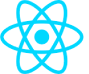
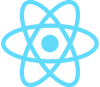
style: curriculum 아이콘 재배치

diff --git a/components/Curriculum.js b/components/Curriculum.js
@@ -80,9 +80,11 @@ const PLImgFirstBox = styled.div`
   justify-content: center;
   img:nth-child(1) {
     margin-right: 33px;
+    height: 91px;
   }
   img:nth-child(2) {
     margin: 0 33px;
+    height: 91px;
   }
 
   @media screen and (max-width: 1024px) {
@@ -93,9 +95,9 @@ const PLImgFirstBox = styled.div`
       height: 91px;
     }
     img:nth-child(2) {
-      margin: 0 33px;
+      margin: 0 22px;
       width: 87px;
-      height: 87px;
+      height: 80px;
     }
   }
 `;
@@ -113,21 +115,19 @@ const PLImgSecondBox = styled.div`
   }
 
   @media screen and (max-width: 1024px) {
-    margin-top: 15px;
-    width: 75px;
-    height: auto;
+    margin-top: 40px;
     align-items: center;
     img:nth-child(1) {
       margin: 0 21px 0 0;
-      width: 90px;
+      width: 100px;
     }
     img:nth-child(2) {
-      margin: 0 30px;
-      width: 550px;
+      margin: 0 21px;
+      width: 87px;
     }
     img:nth-child(3) {
       margin-left: 21px;
-      width: 550px;
+      width: 87px;
     }
   }
 `;
@@ -135,31 +135,31 @@ const PLImgSecondBox = styled.div`
 const PLImgThirdBox = styled.div`
   display: flex;
   img:nth-child(1) {
-    margin: 0 27px;
+    margin: 0 33px 0 48px;
   }
   img:nth-child(2) {
     margin: 0 33px;
   }
   img:nth-child(3) {
-    margin-left: 30px;
+    margin: 8px 0 0 30px;
+    height: 73px;
   }
   margin: 0 0 0 15px;
 
   @media screen and (max-width: 1024px) {
-    margin-top: 15px;
-    width: 75px;
-    height: auto;
     align-items: center;
     img:nth-child(1) {
-      margin: 0 21px 0 30px;
-      width: 90px;
+      margin: 0 9px 0 0;
+      width: 55px;
     }
     img:nth-child(2) {
-      margin: 0 0 0 20px;
-      width: 550px;
+      margin: 0 10px;
+      width: 150px;
     }
     img:nth-child(3) {
-      width: 550px;
+      margin: 10px 3px 10px 0;
+      width: 115px;
+      height: 60px;
     }
   }
 `;
@@ -191,29 +191,29 @@ const Curriculum = forwardRef((props, ref) => {
         <PLImgFirstBox>
           <img
             src='../img/htmlcss.png'
-            alt='HtmlAndCss'
+            alt='HtmlAndCss 아이콘'
             {...AnimationArray[0].animation}
           />
           <img
             src='../img/react.png'
-            alt='react'
+            alt='리액트 아이콘'
             {...AnimationArray[1].animation}
           />
         </PLImgFirstBox>
         <PLImgSecondBox>
           <img
             src='../img/node.png'
-            alt='node.js'
+            alt='노드JS 아이콘'
             {...AnimationArray[2].animation}
           />
           <img
             src='../img/javascript.png'
-            alt='javascript'
+            alt='JS 아이콘'
             {...AnimationArray[3].animation}
           />
           <img
             src='../img/django.png'
-            alt='django'
+            alt='장고 아이콘'
             {...AnimationArray[4].animation}
           />
         </PLImgSecondBox>
@@ -226,29 +226,29 @@ const Curriculum = forwardRef((props, ref) => {
         <PLImgFirstBox>
           <img
             src='../img/slack.png'
-            alt='HtmlAndCss'
+            alt='슬랙 아이콘'
             {...AnimationArray[5].animation}
           />
           <img
             src='../img/notion.png'
-            alt='react'
+            alt='노션 아이콘'
             {...AnimationArray[6].animation}
           />
         </PLImgFirstBox>
         <PLImgThirdBox>
           <img
             src='../img/figma.png'
-            alt='node.js'
+            alt='피그마 아이콘'
             {...AnimationArray[7].animation}
           />
           <img
             src='../img/github.png'
-            alt='javascript'
+            alt='깃허브 아이콘'
             {...AnimationArray[8].animation}
           />
           <img
             src='../img/gatherTown.png'
-            alt='javascript'
+            alt='게더타운 아이콘'
             {...AnimationArray[9].animation}
           />
         </PLImgThirdBox>
